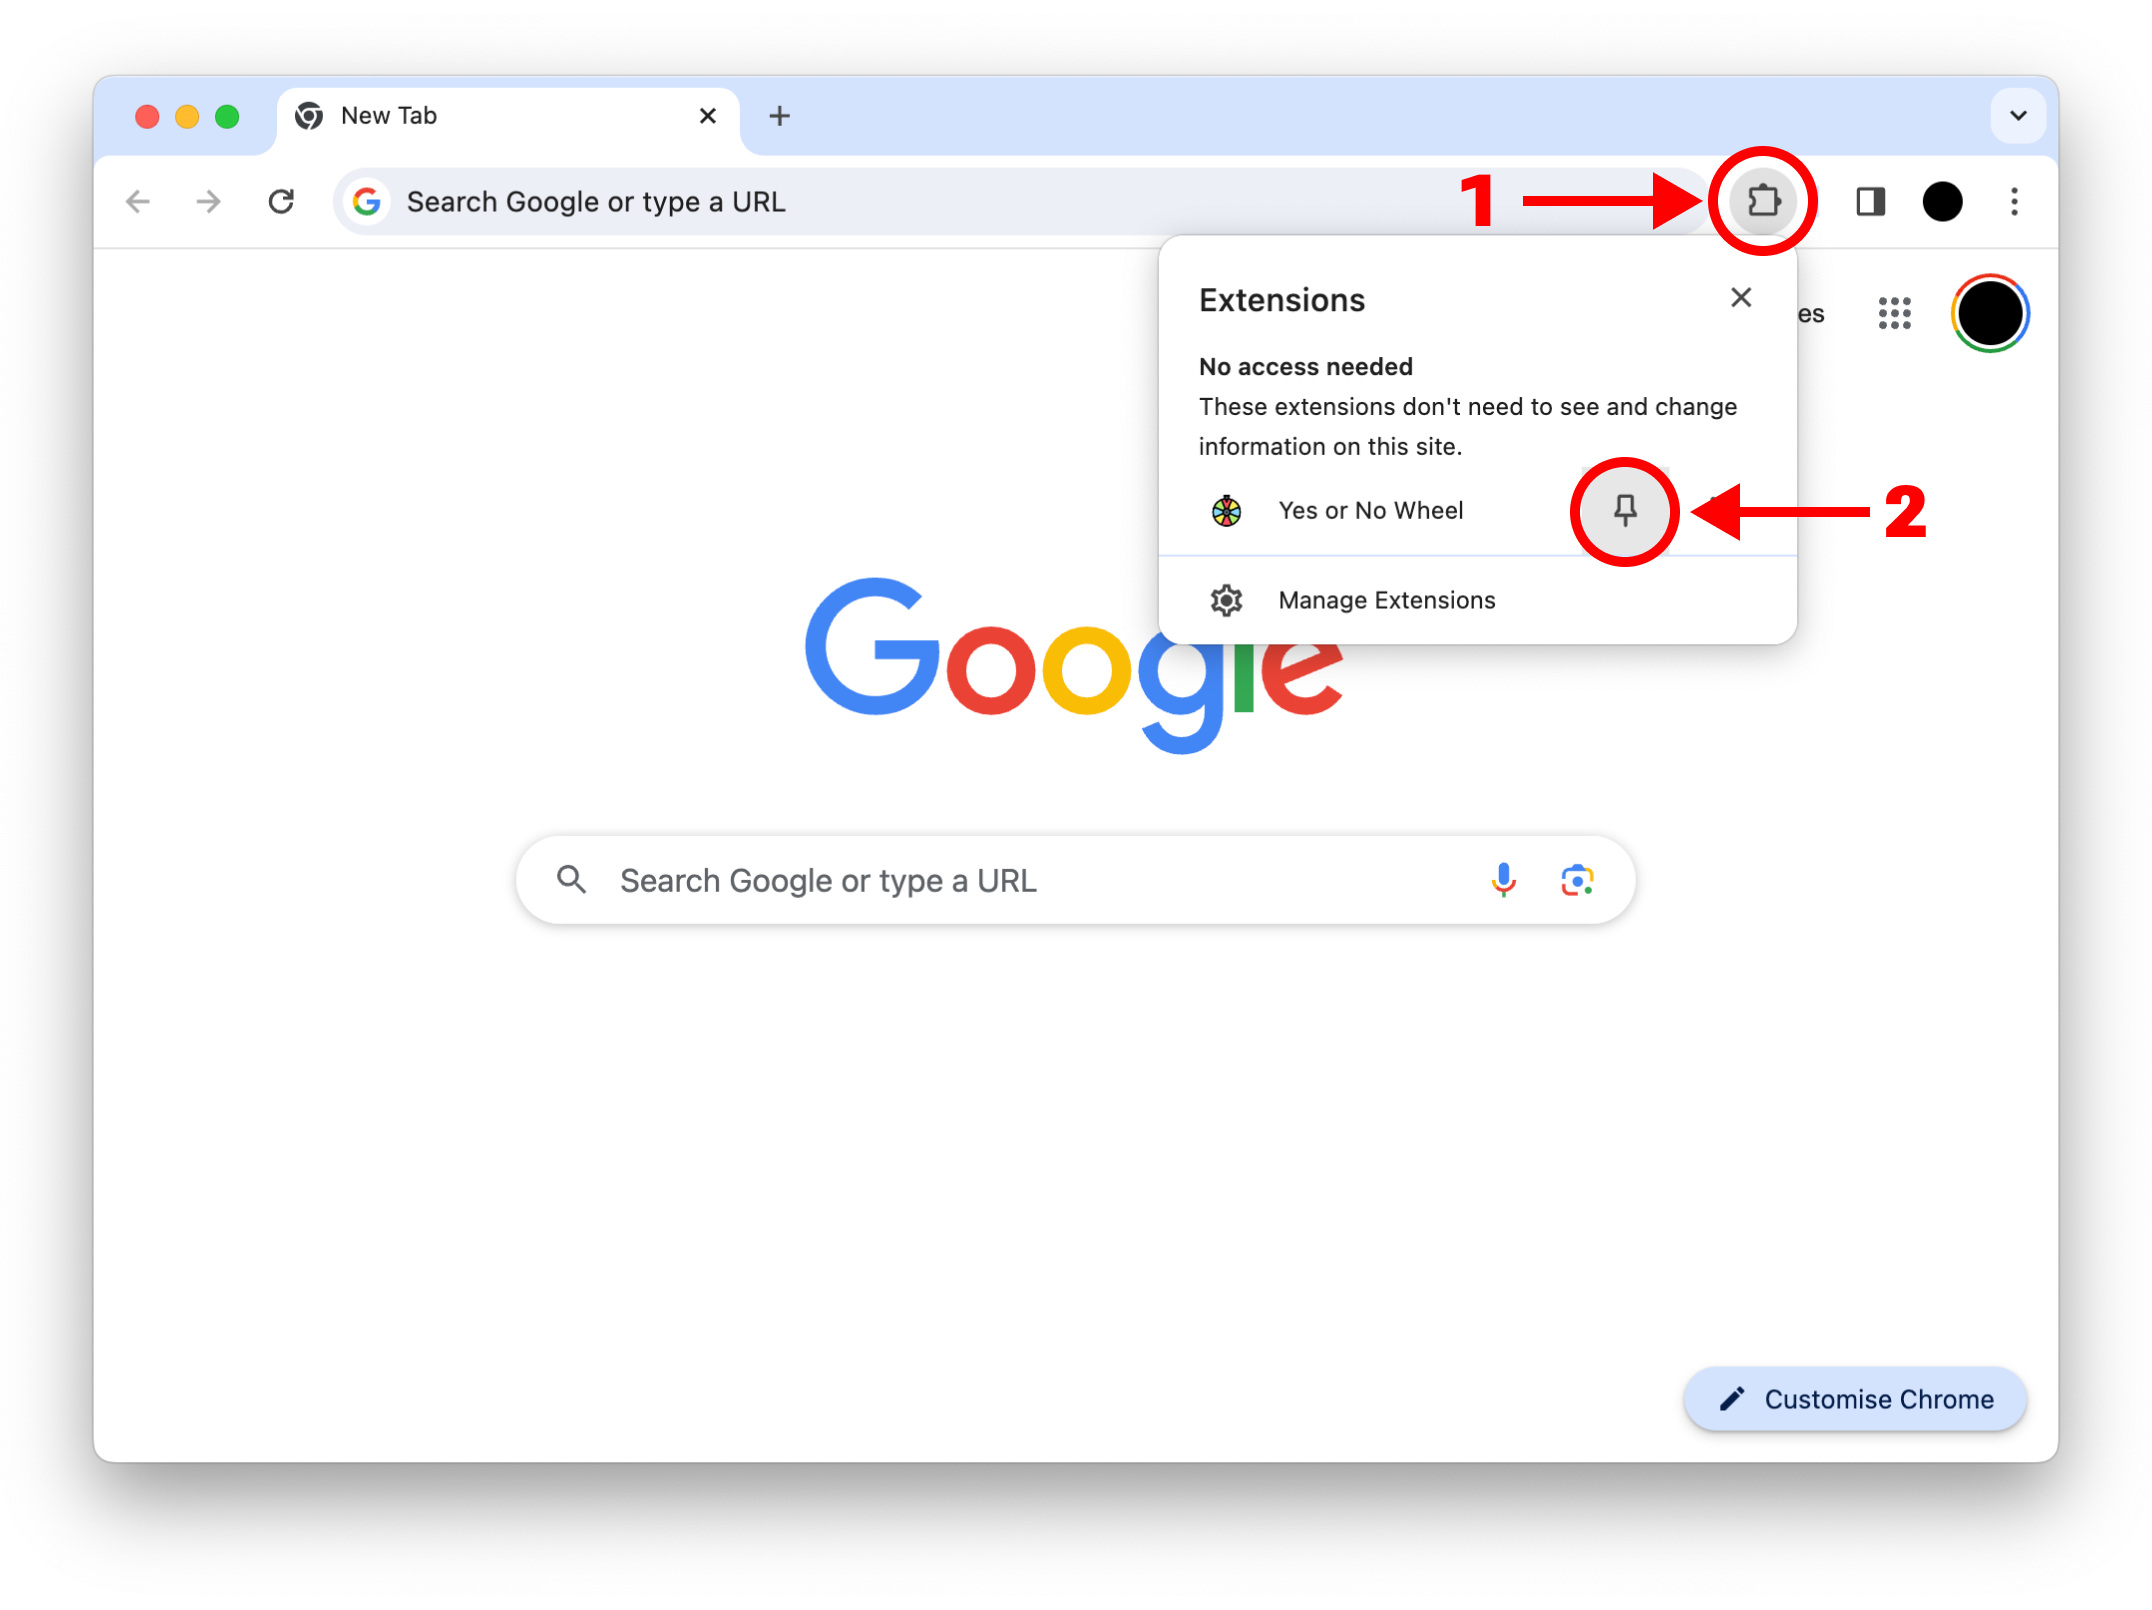
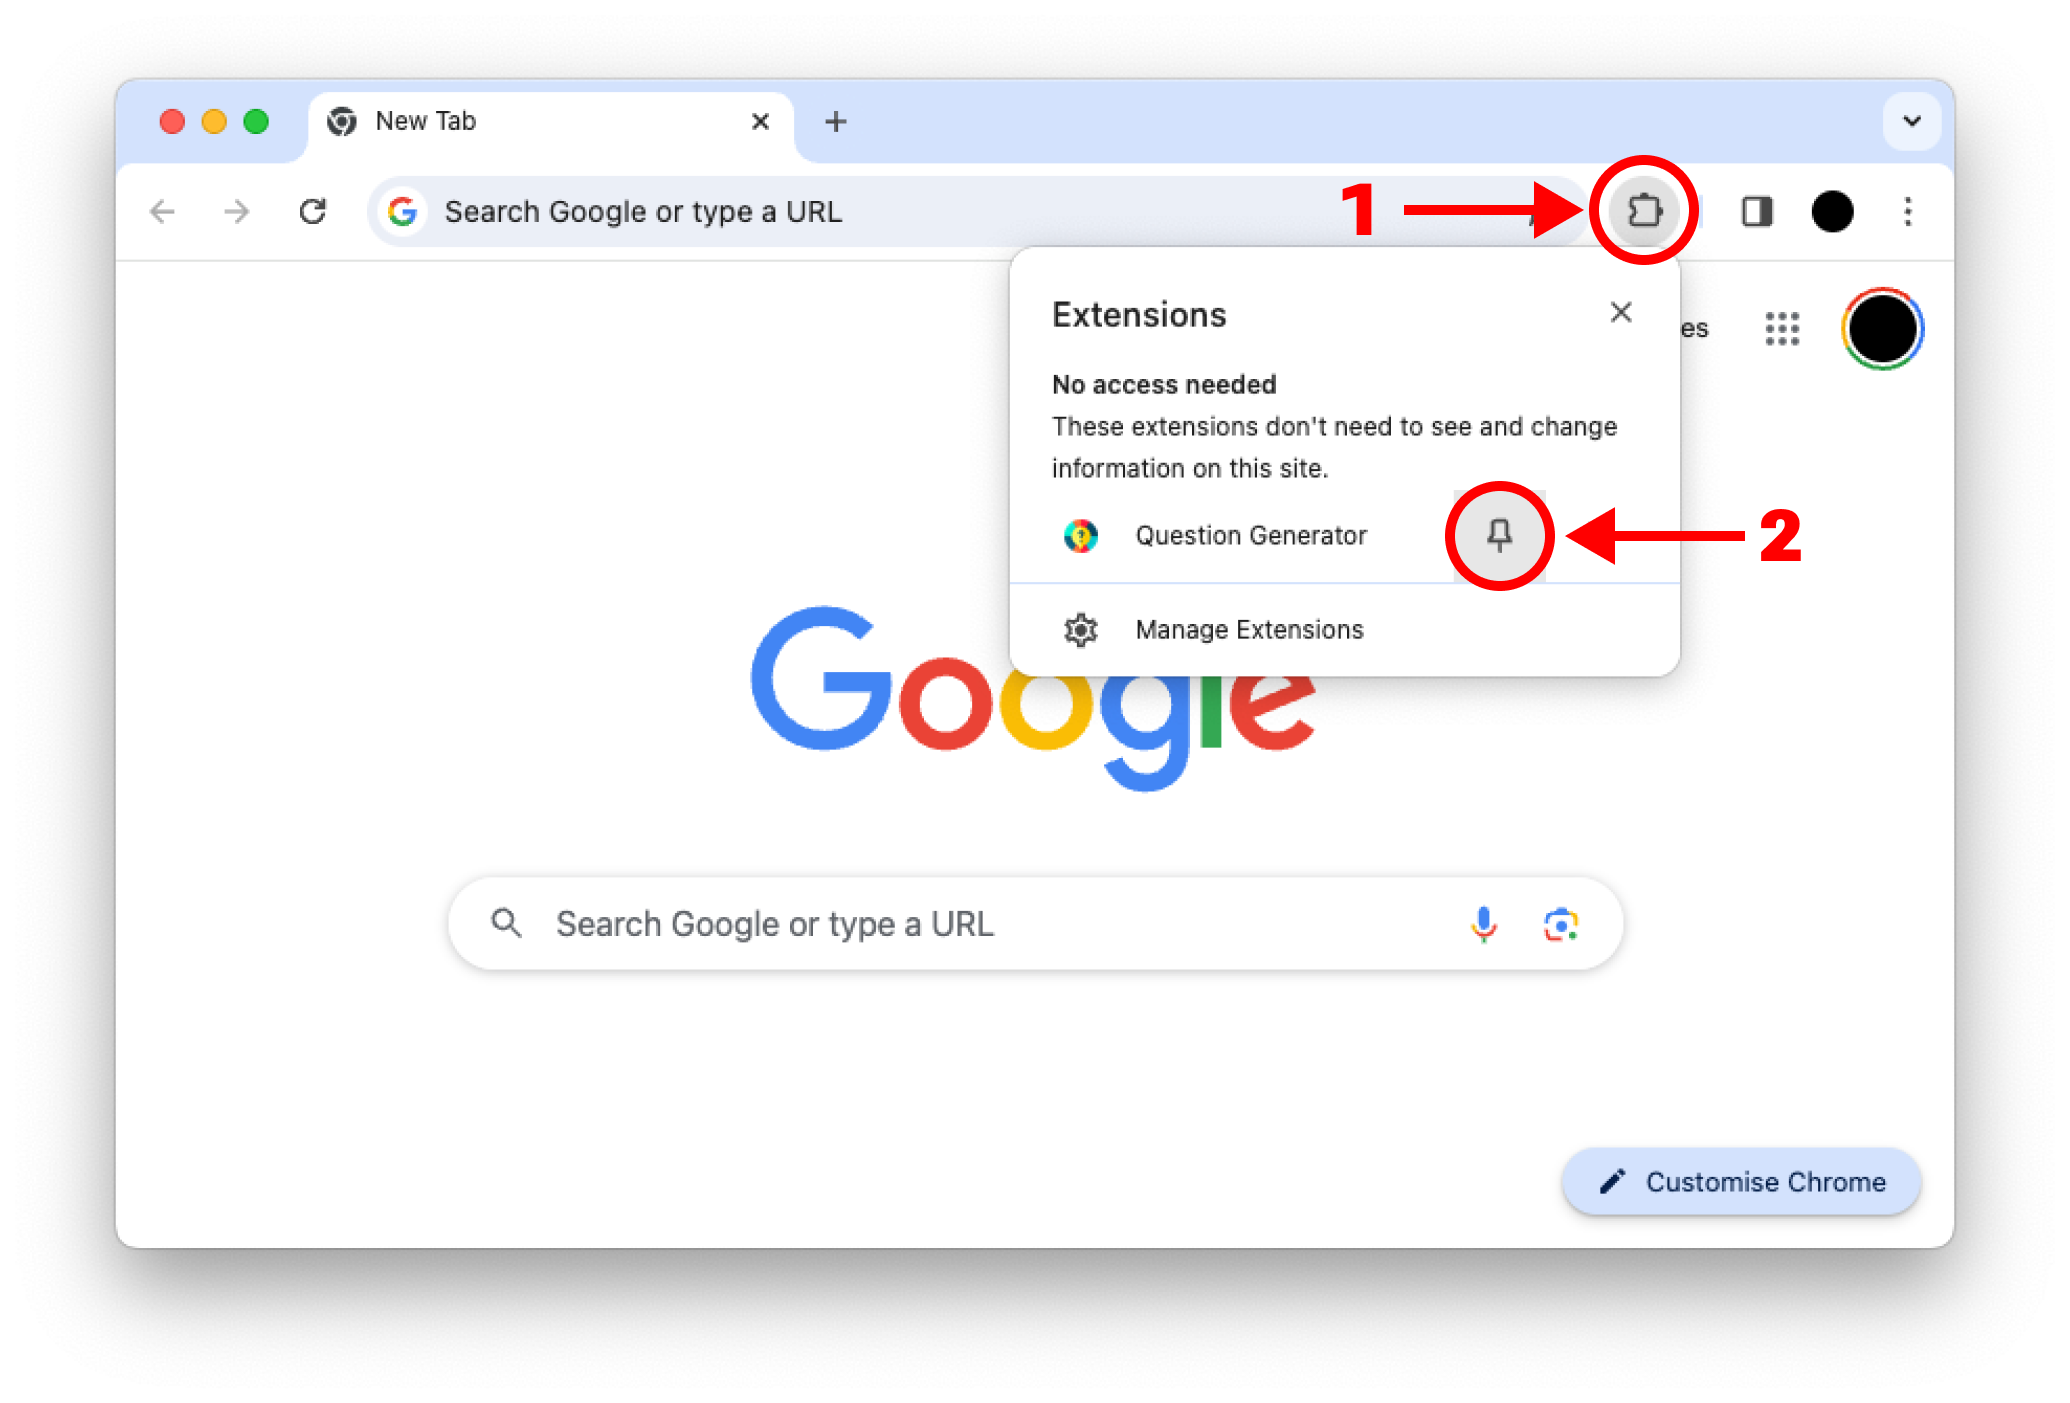
Update screens

diff --git a/index.html b/index.html
@@ -58,8 +58,8 @@
         <img src="images/Web_Screen1.png" alt="Steps Image 1" />
       </div>
       <div class="step">
-        <span class="bold">Open the extension (3)</span> on any page to start
-        generating quizzes
+        Click to <span class="bold">open the extension (3)</span> anywhere to
+        start generating quizzes
         <img src="images/Web_Screen2.png" alt="Steps Image 2" />
       </div>
     </div>
